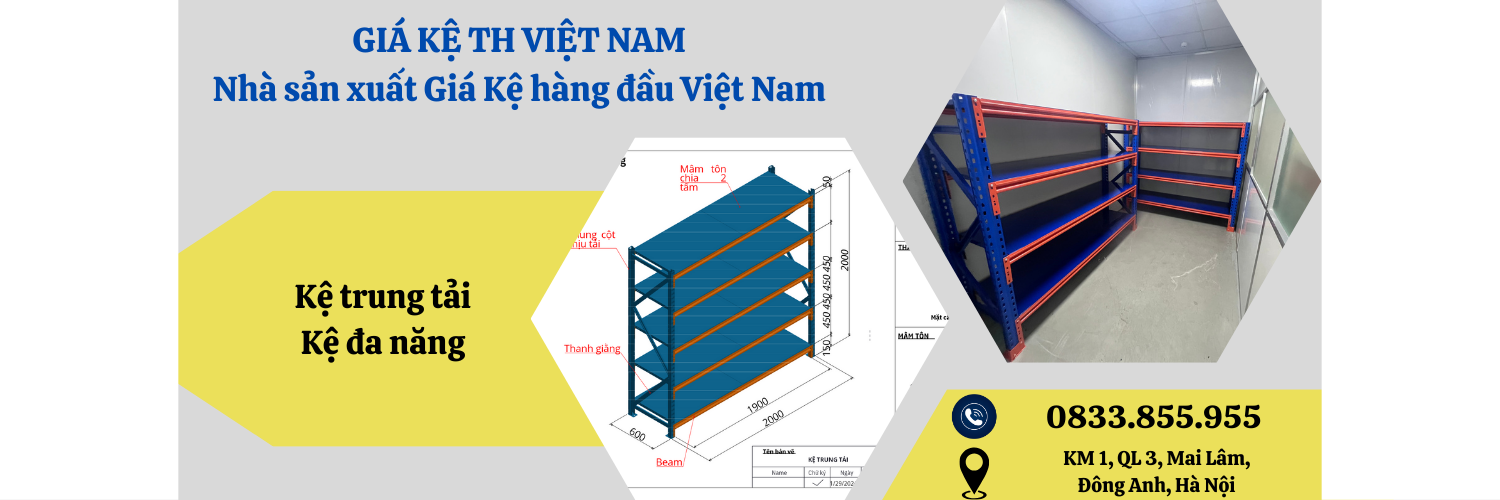
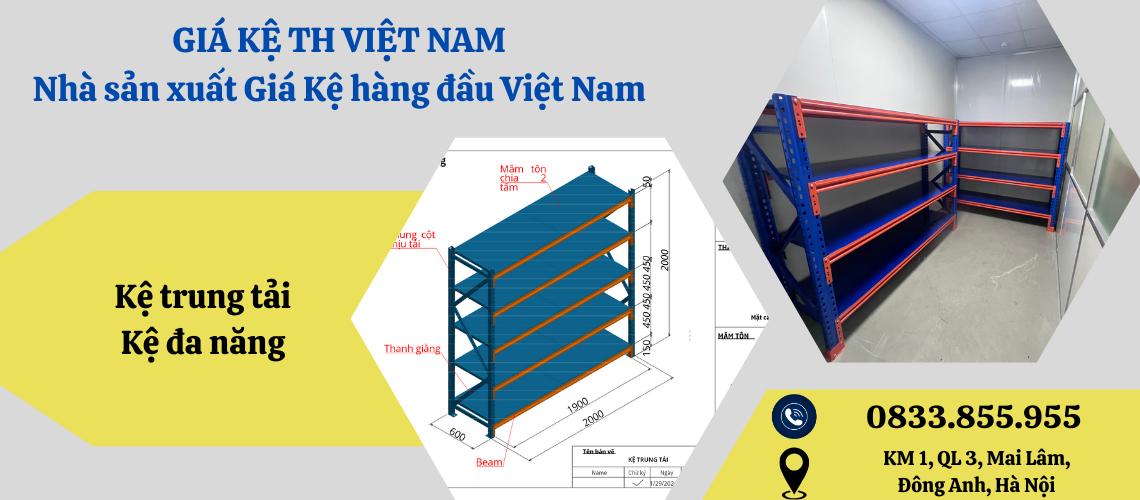
sửa slider

diff --git a/src/containers/Home/Home.scss b/src/containers/Home/Home.scss
@@ -18,6 +18,8 @@
                             background-repeat  : no-repeat;
                             background-size    : cover;
                             background-position: center;
+                            max-width          : 1300px;
+                            margin             : 0 auto;
                         }
                     }
                 }
